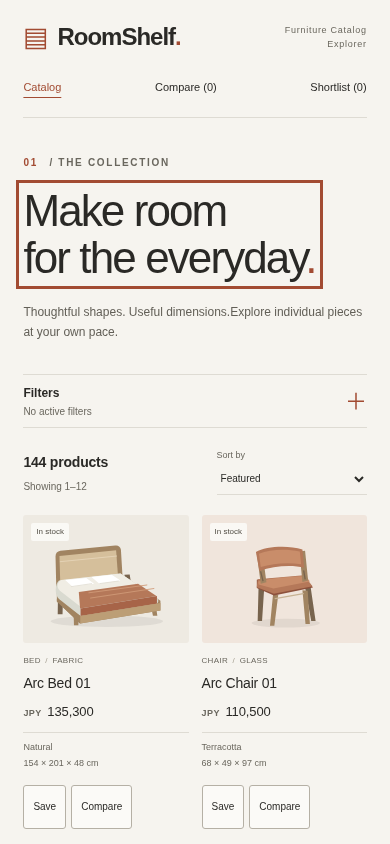
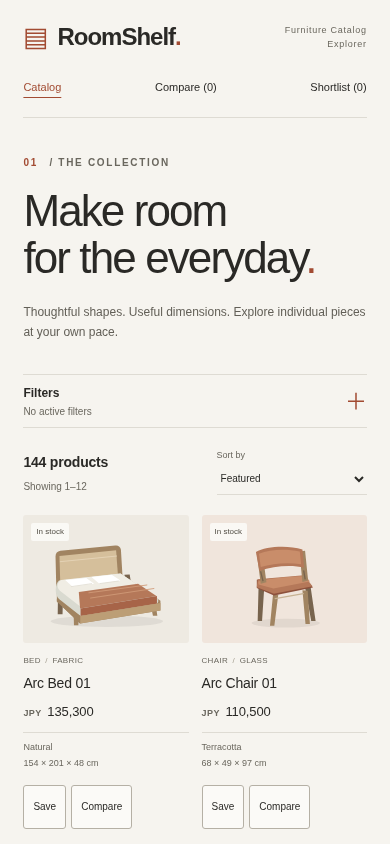
Polish mobile catalog copy and screenshot presentation

Changed region(s): [[0.0615, 0.2156, 0.9231, 0.4005], [0.0308, 0.2156, 0.0615, 0.3389]]

diff --git a/e2e/screenshots/capture.spec.js b/e2e/screenshots/capture.spec.js
@@ -75,6 +75,10 @@ test('capture four genuine seeded application views', async ({ browser, baseURL 
       await mobilePage.goto('/products');
       await expect(cards(mobilePage)).toHaveCount(12);
       await expect(mobilePage.locator('.filter-panel details')).not.toHaveAttribute('open');
+      const heading = mobilePage.getByRole('heading', { name: 'Make room for the everyday.', exact: true });
+      await expect(heading).toBeFocused();
+      await mobilePage.getByText('144 products', { exact: true }).click();
+      await expect(heading).not.toBeFocused();
       await capture(mobilePage, 'mobile-catalog.png');
     } finally { await mobile.close(); }
     expect(unexpected).toEqual([]);

diff --git a/frontend/src/pages/CatalogPage.tsx b/frontend/src/pages/CatalogPage.tsx
@@ -86,8 +86,7 @@ export function CatalogPage() {
         </div>
         <div className="intro-aside">
           <p>
-            Thoughtful shapes. Useful dimensions.
-            <br />
+            Thoughtful shapes. Useful dimensions. <br />
             Explore individual pieces at your own pace.
           </p>
           <span className="intro-line" aria-hidden="true" />

diff --git a/docs/ARCHITECTURE.md b/docs/ARCHITECTURE.md
@@ -49,7 +49,7 @@ The frontend shares bootstrap promises, uses bounded Web Locks where available f
 
 Routes set descriptive document titles and move focus to a heading or stable main element; catalog filter changes retain user focus. Removing a comparison/shortlist item selects an adjacent control or empty-state action after confirmed rendering. Native mobile filter disclosure starts collapsed and preserves explicit choices across resizing. Original neutral styling includes measured AA text contrast fixes; keyboard, viewport, and real 200%/400% Chromium zoom/reflow are tested. These checks do not replace manual screen-reader assessment or establish complete WCAG conformance.
 
-Python requirements pin the full runtime/development graph with artifact hashes; npm uses committed lockfiles. Audit tooling and formatting are pinned, and CI fails on advisories, audit errors, or formatting violations. pytest exercises SQLite/API/security, Vitest exercises React state/recovery/focus, and Playwright exercises the actual seeded system. JSON examples are parsed and representative responses are compared with the implementation. No external product API or runtime service is involved.
+Python requirements pin the full runtime/development graph with artifact hashes; npm uses committed lockfiles. Audit tooling and formatting are pinned. The strict Python audit fails on detected advisories, unauditable dependencies, or advisory-service errors. CI runs `npm audit --audit-level=moderate`, so moderate, high, and critical findings fail the check; low-severity findings alone do not. Formatting violations also fail CI. pytest exercises SQLite/API/security, Vitest exercises React state/recovery/focus, and Playwright exercises the actual seeded system. JSON examples are parsed and representative responses are compared with the implementation. No external product API or runtime service is involved.
 
 ## Production assumptions, unvalidated
 

diff --git a/docs/screenshots/README.md b/docs/screenshots/README.md
@@ -5,7 +5,7 @@ Actual Flask/React browser captures with a newly initialized SQLite database and
 | File | Capture viewport / state |
 | --- | --- |
 | `desktop-catalog.png` | 1440 × 1080; full page; choose Chair and Metal, then ascending price (five matches) |
-| `mobile-catalog.png` | 390 × 844; viewport; fresh unfiltered catalog with default collapsed Filters |
+| `mobile-catalog.png` | 390 × 844; viewport; fresh unfiltered catalog with default collapsed Filters; click the static product count before capture to clear incidental heading focus |
 | `product-details.png` | 1440 × 1080; full page; open seeded Arc Chair 01 from the catalog |
 | `three-chair-comparison.png` | 1440 × 1080; full page; select Arc Chair 01, Cedarline Chair 02, Dune Chair 03, then open Compare (3) |
 
